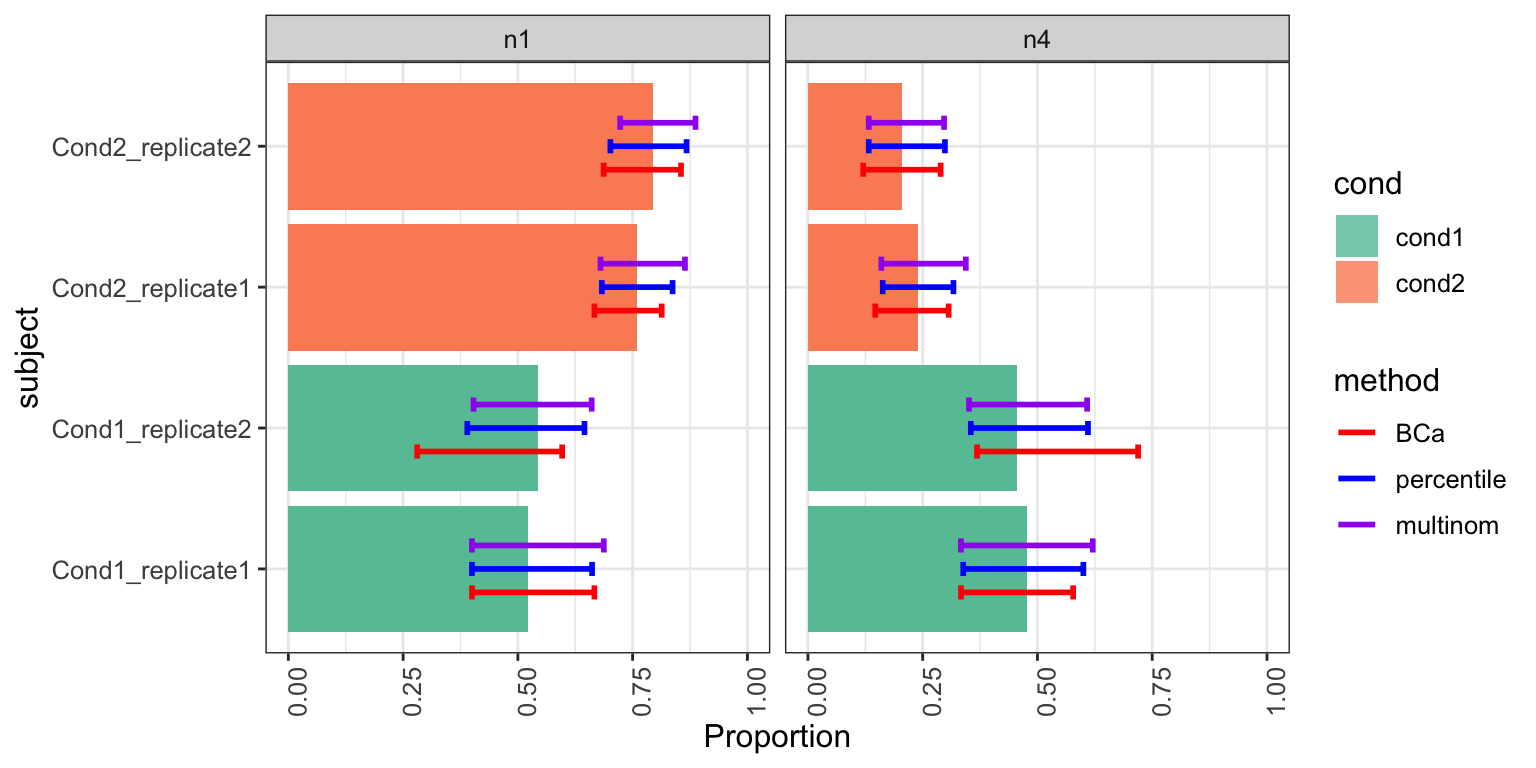
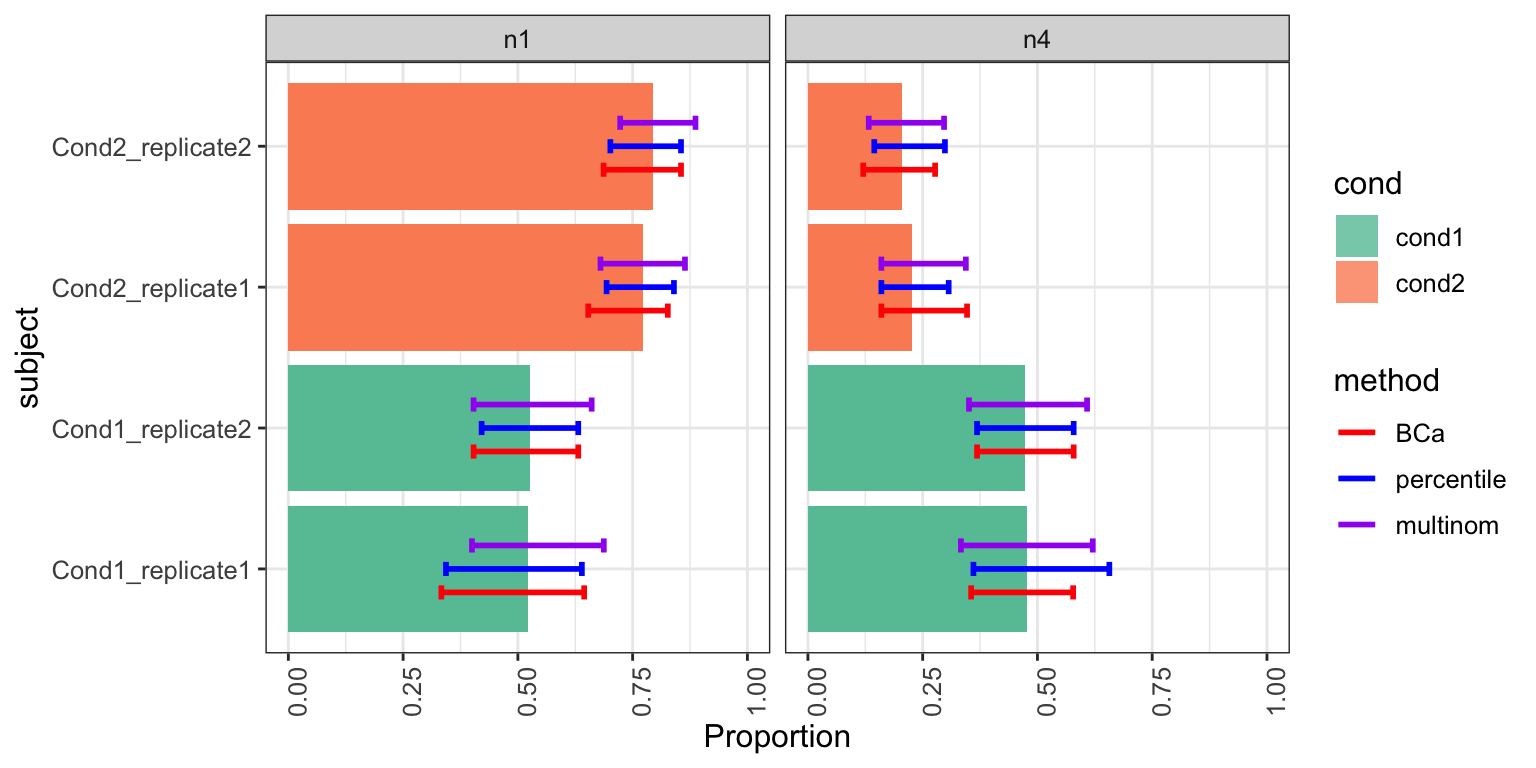
change readme figures link

diff --git a/docs/articles/scDC.html b/docs/articles/scDC.html
@@ -30,7 +30,7 @@
       </button>
       <span class="navbar-brand">
         <a class="navbar-link" href="../index.html">scdney</a>
-        <span class="version label label-default" data-toggle="tooltip" data-placement="bottom" title="Released version">0.1.4</span>
+        <span class="version label label-default" data-toggle="tooltip" data-placement="bottom" title="Released version">0.1.5</span>
       </span>
     </div>
 
@@ -79,7 +79,7 @@
       <h1>scDC: single cell differential composition analysis</h1>
                         <h4 class="author">Yingxin Lin</h4>
             
-            <h4 class="date">2019-07-21</h4>
+            <h4 class="date">2019-08-21</h4>
       
       
       <div class="hidden name"><code>scDC.Rmd</code></div>
@@ -138,8 +138,8 @@ cond &lt;-<span class="st"> </span>sim<span class="op">$</span>sim_cond
 <p><img src="scDC_files/figure-html/unnamed-chunk-4-1.png" width="768"></p>
 <div class="sourceCode"><pre class="sourceCode r"><code class="sourceCode r"><span class="kw"><a href="../reference/densityCI.html">densityCI</a></span>(res_scDC_noClust, <span class="kw"><a href="https://www.rdocumentation.org/packages/base/topics/c">c</a></span>(<span class="st">"cond1"</span>,<span class="st">"cond1"</span>,<span class="st">"cond1"</span>,<span class="st">"cond1"</span>,
                               <span class="st">"cond2"</span>,<span class="st">"cond2"</span>,<span class="st">"cond2"</span>,<span class="st">"cond2"</span>))
-<span class="co">#&gt; Picking joint bandwidth of 0.0198</span>
-<span class="co">#&gt; Picking joint bandwidth of 0.0198</span></code></pre></div>
+<span class="co">#&gt; Picking joint bandwidth of 0.0225</span>
+<span class="co">#&gt; Picking joint bandwidth of 0.0225</span></code></pre></div>
 <p><img src="scDC_files/figure-html/unnamed-chunk-5-1.png" width="768"></p>
 </div>
 <div id="fitting-glm" class="section level2">
@@ -155,21 +155,19 @@ cond &lt;-<span class="st"> </span>sim<span class="op">$</span>sim_cond
 <span class="co">#&gt; boundary (singular) fit: see ?isSingular</span>
 <span class="co">#&gt; boundary (singular) fit: see ?isSingular</span>
 <span class="co">#&gt; boundary (singular) fit: see ?isSingular</span>
-<span class="co">#&gt; Warning in checkConv(attr(opt, "derivs"), opt$par, ctrl =</span>
-<span class="co">#&gt; control$checkConv, : Model failed to converge with max|grad| = 0.0059491</span>
-<span class="co">#&gt; (tol = 0.001, component 1)</span>
+<span class="co">#&gt; boundary (singular) fit: see ?isSingular</span>
 <span class="co">#&gt; boundary (singular) fit: see ?isSingular</span>
 <span class="co">#&gt; [1] "fitting GLM... 10"</span>
 <span class="co">#&gt; boundary (singular) fit: see ?isSingular</span>
 <span class="co">#&gt; boundary (singular) fit: see ?isSingular</span>
 <span class="co">#&gt; boundary (singular) fit: see ?isSingular</span>
 <span class="co">#&gt; boundary (singular) fit: see ?isSingular</span>
+<span class="co">#&gt; boundary (singular) fit: see ?isSingular</span>
+<span class="co">#&gt; boundary (singular) fit: see ?isSingular</span>
+<span class="co">#&gt; boundary (singular) fit: see ?isSingular</span>
 <span class="co">#&gt; Warning in checkConv(attr(opt, "derivs"), opt$par, ctrl =</span>
-<span class="co">#&gt; control$checkConv, : Model failed to converge with max|grad| = 0.00303999</span>
+<span class="co">#&gt; control$checkConv, : Model failed to converge with max|grad| = 0.00508142</span>
 <span class="co">#&gt; (tol = 0.001, component 1)</span>
-<span class="co">#&gt; boundary (singular) fit: see ?isSingular</span>
-<span class="co">#&gt; boundary (singular) fit: see ?isSingular</span>
-<span class="co">#&gt; boundary (singular) fit: see ?isSingular</span>
 <span class="co">#&gt; boundary (singular) fit: see ?isSingular</span>
 <span class="co">#&gt; boundary (singular) fit: see ?isSingular</span>
 <span class="co">#&gt; [1] "fitting GLM... 20"</span>
@@ -180,32 +178,30 @@ cond &lt;-<span class="st"> </span>sim<span class="op">$</span>sim_cond
 <span class="co">#&gt; boundary (singular) fit: see ?isSingular</span>
 <span class="co">#&gt; boundary (singular) fit: see ?isSingular</span>
 <span class="co">#&gt; boundary (singular) fit: see ?isSingular</span>
-<span class="co">#&gt; Warning in checkConv(attr(opt, "derivs"), opt$par, ctrl =</span>
-<span class="co">#&gt; control$checkConv, : Model failed to converge with max|grad| = 0.00334757</span>
-<span class="co">#&gt; (tol = 0.001, component 1)</span>
+<span class="co">#&gt; boundary (singular) fit: see ?isSingular</span>
 <span class="co">#&gt; boundary (singular) fit: see ?isSingular</span>
 <span class="co">#&gt; boundary (singular) fit: see ?isSingular</span>
 <span class="co">#&gt; [1] "fitting GLM... 30"</span>
+<span class="co">#&gt; boundary (singular) fit: see ?isSingular</span>
+<span class="co">#&gt; boundary (singular) fit: see ?isSingular</span>
+<span class="co">#&gt; boundary (singular) fit: see ?isSingular</span>
+<span class="co">#&gt; boundary (singular) fit: see ?isSingular</span>
+<span class="co">#&gt; boundary (singular) fit: see ?isSingular</span>
+<span class="co">#&gt; boundary (singular) fit: see ?isSingular</span>
+<span class="co">#&gt; boundary (singular) fit: see ?isSingular</span>
+<span class="co">#&gt; boundary (singular) fit: see ?isSingular</span>
 <span class="co">#&gt; Warning in checkConv(attr(opt, "derivs"), opt$par, ctrl =</span>
-<span class="co">#&gt; control$checkConv, : Model failed to converge with max|grad| = 0.00218814</span>
+<span class="co">#&gt; control$checkConv, : Model failed to converge with max|grad| = 0.0253206</span>
 <span class="co">#&gt; (tol = 0.001, component 1)</span>
-<span class="co">#&gt; boundary (singular) fit: see ?isSingular</span>
-<span class="co">#&gt; boundary (singular) fit: see ?isSingular</span>
-<span class="co">#&gt; boundary (singular) fit: see ?isSingular</span>
-<span class="co">#&gt; Warning in checkConv(attr(opt, "derivs"), opt$par, ctrl =</span>
-<span class="co">#&gt; control$checkConv, : Model failed to converge with max|grad| = 0.0153461</span>
-<span class="co">#&gt; (tol = 0.001, component 1)</span>
-<span class="co">#&gt; boundary (singular) fit: see ?isSingular</span>
-<span class="co">#&gt; boundary (singular) fit: see ?isSingular</span>
-<span class="co">#&gt; boundary (singular) fit: see ?isSingular</span>
-<span class="co">#&gt; boundary (singular) fit: see ?isSingular</span>
 <span class="co">#&gt; boundary (singular) fit: see ?isSingular</span>
 <span class="co">#&gt; [1] "fitting GLM... 40"</span>
 <span class="co">#&gt; boundary (singular) fit: see ?isSingular</span>
 <span class="co">#&gt; boundary (singular) fit: see ?isSingular</span>
 <span class="co">#&gt; boundary (singular) fit: see ?isSingular</span>
 <span class="co">#&gt; boundary (singular) fit: see ?isSingular</span>
-<span class="co">#&gt; boundary (singular) fit: see ?isSingular</span>
+<span class="co">#&gt; Warning in checkConv(attr(opt, "derivs"), opt$par, ctrl =</span>
+<span class="co">#&gt; control$checkConv, : Model failed to converge with max|grad| = 0.00218806</span>
+<span class="co">#&gt; (tol = 0.001, component 1)</span>
 <span class="co">#&gt; boundary (singular) fit: see ?isSingular</span>
 <span class="co">#&gt; boundary (singular) fit: see ?isSingular</span>
 <span class="co">#&gt; boundary (singular) fit: see ?isSingular</span>
@@ -220,30 +216,35 @@ cond &lt;-<span class="st"> </span>sim<span class="op">$</span>sim_cond
 <h4 class="hasAnchor">
 <a href="#fixed-effect" class="anchor"></a>Fixed effect</h4>
 <div class="sourceCode"><pre class="sourceCode r"><code class="sourceCode r"><span class="kw"><a href="https://www.rdocumentation.org/packages/base/topics/summary">summary</a></span>(res_GLM<span class="op">$</span>pool_res_fixed)
-<span class="co">#&gt;                           estimate std.error  statistic        df</span>
-<span class="co">#&gt; (Intercept)              3.1625641 0.2012901 15.7114742 0.9223283</span>
-<span class="co">#&gt; cellTypesn4             -0.1107832 0.2829555 -0.3915215 0.5935210</span>
-<span class="co">#&gt; condcond2                1.0067141 0.2398887  4.1965885 0.9380060</span>
-<span class="co">#&gt; subjectCond1_replicate2  0.2363888 0.1994143  1.1854154 1.1998800</span>
-<span class="co">#&gt; subjectCond2_replicate1 -0.1013525 0.1593158 -0.6361735 1.1998800</span>
-<span class="co">#&gt; cellTypesn4:condcond2   -1.1650624 0.4121154 -2.8270297 0.5443822</span>
+<span class="co">#&gt;                            estimate std.error  statistic        df</span>
+<span class="co">#&gt; (Intercept)              3.15413807 0.1964143 16.0585951 0.9732650</span>
+<span class="co">#&gt; cellTypesn4             -0.09101547 0.2680019 -0.3396075 0.6598746</span>
+<span class="co">#&gt; condcond2                1.01268012 0.2321879  4.3614681 1.0051170</span>
+<span class="co">#&gt; subjectCond1_replicate2  0.23638878 0.1994143  1.1854155 1.1998800</span>
+<span class="co">#&gt; subjectCond2_replicate1 -0.10135249 0.1593158 -0.6361736 1.1998800</span>
+<span class="co">#&gt; cellTypesn4:condcond2   -1.17116306 0.3773323 -3.1037978 0.6455669</span>
 <span class="co">#&gt;                            p.value</span>
-<span class="co">#&gt; (Intercept)             0.04948581</span>
-<span class="co">#&gt; cellTypesn4             0.79204441</span>
-<span class="co">#&gt; condcond2               0.16142850</span>
-<span class="co">#&gt; subjectCond1_replicate2 0.41965885</span>
-<span class="co">#&gt; subjectCond2_replicate1 0.62431046</span>
-<span class="co">#&gt; cellTypesn4:condcond2   0.35638527</span></code></pre></div>
+<span class="co">#&gt; (Intercept)             0.04243676</span>
+<span class="co">#&gt; cellTypesn4             0.81146423</span>
+<span class="co">#&gt; condcond2               0.14252249</span>
+<span class="co">#&gt; subjectCond1_replicate2 0.41965883</span>
+<span class="co">#&gt; subjectCond2_replicate1 0.62431042</span>
+<span class="co">#&gt; cellTypesn4:condcond2   0.29656118</span></code></pre></div>
 </div>
 <div id="random-effect" class="section level4">
 <h4 class="hasAnchor">
 <a href="#random-effect" class="anchor"></a>Random effect</h4>
 <div class="sourceCode"><pre class="sourceCode r"><code class="sourceCode r"><span class="kw"><a href="https://www.rdocumentation.org/packages/base/topics/summary">summary</a></span>(res_GLM<span class="op">$</span>pool_res_random)
-<span class="co">#&gt;                         estimate std.error  statistic        df    p.value</span>
-<span class="co">#&gt; (Intercept)            3.2877209 0.1676276 19.6132482 1.3309304 0.01334055</span>
-<span class="co">#&gt; cellTypesn4           -0.1107771 0.2829552 -0.3915003 0.9871837 0.76310054</span>
-<span class="co">#&gt; condcond2              0.8321651 0.1985175  4.1918979 1.3606333 0.09745887</span>
-<span class="co">#&gt; cellTypesn4:condcond2 -1.1650457 0.4121149 -2.8269927 0.9053086 0.23701436</span></code></pre></div>
+<span class="co">#&gt;                          estimate std.error  statistic       df</span>
+<span class="co">#&gt; (Intercept)            3.27932059 0.1617415 20.2750773 1.441107</span>
+<span class="co">#&gt; cellTypesn4           -0.09101401 0.2680008 -0.3396035 1.097796</span>
+<span class="co">#&gt; condcond2              0.83809398 0.1891364  4.4311628 1.509147</span>
+<span class="co">#&gt; cellTypesn4:condcond2 -1.17115780 0.3773325 -3.1037822 1.073936</span>
+<span class="co">#&gt;                           p.value</span>
+<span class="co">#&gt; (Intercept)           0.009586436</span>
+<span class="co">#&gt; cellTypesn4           0.787589159</span>
+<span class="co">#&gt; condcond2             0.076951683</span>
+<span class="co">#&gt; cellTypesn4:condcond2 0.184444189</span></code></pre></div>
 </div>
 </div>
 </div>
@@ -290,7 +291,7 @@ cond &lt;-<span class="st"> </span>sim<span class="op">$</span>sim_cond
 <div class="sourceCode"><pre class="sourceCode r"><code class="sourceCode r"><span class="kw"><a href="https://www.rdocumentation.org/packages/utils/topics/sessionInfo">sessionInfo</a></span>()
 <span class="co">#&gt; R version 3.6.1 (2019-07-05)</span>
 <span class="co">#&gt; Platform: x86_64-apple-darwin15.6.0 (64-bit)</span>
-<span class="co">#&gt; Running under: macOS Mojave 10.14.5</span>
+<span class="co">#&gt; Running under: macOS Mojave 10.14.6</span>
 <span class="co">#&gt; </span>
 <span class="co">#&gt; Matrix products: default</span>
 <span class="co">#&gt; BLAS:   /Library/Frameworks/R.framework/Versions/3.6/Resources/lib/libRblas.0.dylib</span>

diff --git a/docs/articles/scdney.html b/docs/articles/scdney.html
@@ -30,7 +30,7 @@
       </button>
       <span class="navbar-brand">
         <a class="navbar-link" href="../index.html">scdney</a>
-        <span class="version label label-default" data-toggle="tooltip" data-placement="bottom" title="Released version">0.1.4</span>
+        <span class="version label label-default" data-toggle="tooltip" data-placement="bottom" title="Released version">0.1.5</span>
       </span>
     </div>
 
@@ -83,7 +83,7 @@
       <h1>scdney</h1>
                         <h4 class="author">Taiyun Kim</h4>
             
-            <h4 class="date">21 July, 2019</h4>
+            <h4 class="date">21 August, 2019</h4>
       
       
       <div class="hidden name"><code>scdney.Rmd</code></div>
@@ -292,9 +292,9 @@ noisyCls &lt;-<span class="st"> </span><span class="cf">function</span>(dat, rho
   <span class="cf">for</span>(i <span class="cf">in</span> <span class="dv">1</span><span class="op">:</span><span class="kw"><a href="https://www.rdocumentation.org/packages/base/topics/length">length</a></span>(<span class="kw"><a href="https://www.rdocumentation.org/packages/base/topics/table">table</a></span>(cls.noisy))) {
     <span class="co"># class label starts from 0</span>
     <span class="cf">if</span> (i <span class="op">!=</span><span class="st"> </span><span class="kw"><a href="https://www.rdocumentation.org/packages/base/topics/length">length</a></span>(<span class="kw"><a href="https://www.rdocumentation.org/packages/base/topics/table">table</a></span>(cls.noisy))) {
-      cls.noisy[<span class="kw"><a href="https://www.rdocumentation.org/packages/dplyr/topics/sample">sample</a></span>(<span class="kw"><a href="https://www.rdocumentation.org/packages/base/topics/which">which</a></span>(cls.truth <span class="op">==</span><span class="st"> </span><span class="kw"><a href="https://www.rdocumentation.org/packages/base/topics/names">names</a></span>(<span class="kw"><a href="https://www.rdocumentation.org/packages/base/topics/table">table</a></span>(cls.noisy))[i]), <span class="kw"><a href="https://www.rdocumentation.org/packages/base/topics/Round">floor</a></span>(<span class="kw"><a href="https://www.rdocumentation.org/packages/base/topics/sum">sum</a></span>(cls.truth <span class="op">==</span><span class="st"> </span><span class="kw"><a href="https://www.rdocumentation.org/packages/base/topics/names">names</a></span>(<span class="kw"><a href="https://www.rdocumentation.org/packages/base/topics/table">table</a></span>(cls.noisy))[i]) <span class="op">*</span><span class="st"> </span>rho))] &lt;-<span class="st"> </span><span class="kw"><a href="https://www.rdocumentation.org/packages/base/topics/names">names</a></span>(<span class="kw"><a href="https://www.rdocumentation.org/packages/base/topics/table">table</a></span>(cls.noisy))[i<span class="op">+</span><span class="dv">1</span>]
+      cls.noisy[<span class="kw"><a href="https://dplyr.tidyverse.org/reference/sample.html">sample</a></span>(<span class="kw"><a href="https://www.rdocumentation.org/packages/base/topics/which">which</a></span>(cls.truth <span class="op">==</span><span class="st"> </span><span class="kw"><a href="https://www.rdocumentation.org/packages/base/topics/names">names</a></span>(<span class="kw"><a href="https://www.rdocumentation.org/packages/base/topics/table">table</a></span>(cls.noisy))[i]), <span class="kw"><a href="https://www.rdocumentation.org/packages/base/topics/Round">floor</a></span>(<span class="kw"><a href="https://www.rdocumentation.org/packages/base/topics/sum">sum</a></span>(cls.truth <span class="op">==</span><span class="st"> </span><span class="kw"><a href="https://www.rdocumentation.org/packages/base/topics/names">names</a></span>(<span class="kw"><a href="https://www.rdocumentation.org/packages/base/topics/table">table</a></span>(cls.noisy))[i]) <span class="op">*</span><span class="st"> </span>rho))] &lt;-<span class="st"> </span><span class="kw"><a href="https://www.rdocumentation.org/packages/base/topics/names">names</a></span>(<span class="kw"><a href="https://www.rdocumentation.org/packages/base/topics/table">table</a></span>(cls.noisy))[i<span class="op">+</span><span class="dv">1</span>]
     } <span class="cf">else</span> {
-      cls.noisy[<span class="kw"><a href="https://www.rdocumentation.org/packages/dplyr/topics/sample">sample</a></span>(<span class="kw"><a href="https://www.rdocumentation.org/packages/base/topics/which">which</a></span>(cls.truth <span class="op">==</span><span class="st"> </span><span class="kw"><a href="https://www.rdocumentation.org/packages/base/topics/names">names</a></span>(<span class="kw"><a href="https://www.rdocumentation.org/packages/base/topics/table">table</a></span>(cls.noisy))[i]), <span class="kw"><a href="https://www.rdocumentation.org/packages/base/topics/Round">floor</a></span>(<span class="kw"><a href="https://www.rdocumentation.org/packages/base/topics/sum">sum</a></span>(cls.truth <span class="op">==</span><span class="st"> </span><span class="kw"><a href="https://www.rdocumentation.org/packages/base/topics/names">names</a></span>(<span class="kw"><a href="https://www.rdocumentation.org/packages/base/topics/table">table</a></span>(cls.noisy))[i]) <span class="op">*</span><span class="st"> </span>rho))] &lt;-<span class="st"> </span><span class="kw"><a href="https://www.rdocumentation.org/packages/base/topics/names">names</a></span>(<span class="kw"><a href="https://www.rdocumentation.org/packages/base/topics/table">table</a></span>(cls.noisy))[<span class="dv">1</span>]
+      cls.noisy[<span class="kw"><a href="https://dplyr.tidyverse.org/reference/sample.html">sample</a></span>(<span class="kw"><a href="https://www.rdocumentation.org/packages/base/topics/which">which</a></span>(cls.truth <span class="op">==</span><span class="st"> </span><span class="kw"><a href="https://www.rdocumentation.org/packages/base/topics/names">names</a></span>(<span class="kw"><a href="https://www.rdocumentation.org/packages/base/topics/table">table</a></span>(cls.noisy))[i]), <span class="kw"><a href="https://www.rdocumentation.org/packages/base/topics/Round">floor</a></span>(<span class="kw"><a href="https://www.rdocumentation.org/packages/base/topics/sum">sum</a></span>(cls.truth <span class="op">==</span><span class="st"> </span><span class="kw"><a href="https://www.rdocumentation.org/packages/base/topics/names">names</a></span>(<span class="kw"><a href="https://www.rdocumentation.org/packages/base/topics/table">table</a></span>(cls.noisy))[i]) <span class="op">*</span><span class="st"> </span>rho))] &lt;-<span class="st"> </span><span class="kw"><a href="https://www.rdocumentation.org/packages/base/topics/names">names</a></span>(<span class="kw"><a href="https://www.rdocumentation.org/packages/base/topics/table">table</a></span>(cls.noisy))[<span class="dv">1</span>]
     }
   }
 
@@ -528,7 +528,7 @@ marker &lt;-<span class="st"> </span>Ery[<span class="dv">2</span>]
 <div class="sourceCode"><pre class="sourceCode r"><code class="sourceCode r"><span class="kw"><a href="https://www.rdocumentation.org/packages/utils/topics/sessionInfo">sessionInfo</a></span>()</code></pre></div>
 <pre><code>## R version 3.6.1 (2019-07-05)
 ## Platform: x86_64-apple-darwin15.6.0 (64-bit)
-## Running under: macOS Mojave 10.14.5
+## Running under: macOS Mojave 10.14.6
 ## 
 ## Matrix products: default
 ## BLAS:   /Library/Frameworks/R.framework/Versions/3.6/Resources/lib/libRblas.0.dylib

diff --git a/docs/articles/scClassify.html b/docs/articles/scClassify.html
@@ -30,7 +30,7 @@
       </button>
       <span class="navbar-brand">
         <a class="navbar-link" href="../index.html">scdney</a>
-        <span class="version label label-default" data-toggle="tooltip" data-placement="bottom" title="Released version">0.1.4</span>
+        <span class="version label label-default" data-toggle="tooltip" data-placement="bottom" title="Released version">0.1.5</span>
       </span>
     </div>
 
@@ -79,7 +79,7 @@
       <h1>scClassify</h1>
                         <h4 class="author">Yingxin Lin</h4>
             
-            <h4 class="date">2019-07-21</h4>
+            <h4 class="date">2019-08-21</h4>
       
       
       <div class="hidden name"><code>scClassify.Rmd</code></div>
@@ -134,9 +134,9 @@ exprsMat_wang_subset &lt;-<span class="st"> </span>scClassify_example<span class
 <span class="co">#&gt;   gamma                 0     0    0     0      0    19        0</span>
 <span class="co">#&gt;   unassigned            5     0    0     0     75     0       45</span></code></pre></div>
 </div>
-<div id="ensemble-classify" class="section level2">
+<div id="ensemble-scclassify" class="section level2">
 <h2 class="hasAnchor">
-<a href="#ensemble-classify" class="anchor"></a>Ensemble Classify</h2>
+<a href="#ensemble-scclassify" class="anchor"></a>Ensemble scClassify</h2>
 <div class="sourceCode"><pre class="sourceCode r"><code class="sourceCode r">scClassify_res_ensemble &lt;-<span class="st"> </span><span class="kw"><a href="../reference/scClassify.html">scClassify</a></span>(<span class="dt">exprsMat_train =</span> <span class="kw"><a href="https://www.rdocumentation.org/packages/base/topics/matrix">as.matrix</a></span>(exprsMat_xin_subset),
                       <span class="dt">cellTypes_train =</span> xin_cellTypes,
                       <span class="dt">exprsMat_test =</span> <span class="kw"><a href="https://www.rdocumentation.org/packages/base/topics/list">list</a></span>(<span class="dt">wang =</span> <span class="kw"><a href="https://www.rdocumentation.org/packages/base/topics/matrix">as.matrix</a></span>(exprsMat_wang_subset)),
@@ -153,10 +153,10 @@ exprsMat_wang_subset &lt;-<span class="st"> </span>scClassify_example<span class
 <span class="co">#&gt;                   wang_cellTypes</span>
 <span class="co">#&gt;                    acinar alpha beta delta ductal gamma stellate</span>
 <span class="co">#&gt;   alpha                 0   206    0     0      0     2        1</span>
-<span class="co">#&gt;   unassigned            5     0    0     0     81     0       44</span>
+<span class="co">#&gt;   beta_delta_gamma      0     0    0     0     21     0        0</span>
 <span class="co">#&gt;   delta                 0     0    0    10      0     0        0</span>
-<span class="co">#&gt;   beta_delta_gamma      0     0    0     0     13     0        0</span>
-<span class="co">#&gt;   beta                  0     0  118     0      2     0        0</span>
+<span class="co">#&gt;   beta                  0     0  118     0      4     0        0</span>
+<span class="co">#&gt;   unassigned            5     0    0     0     71     0       44</span>
 <span class="co">#&gt;   gamma                 0     0    0     0      0    19        0</span></code></pre></div>
 </div>
 </div>
@@ -201,7 +201,7 @@ res<span class="op">$</span>plot</code></pre></div>
 <div class="sourceCode"><pre class="sourceCode r"><code class="sourceCode r"><span class="kw"><a href="https://www.rdocumentation.org/packages/utils/topics/sessionInfo">sessionInfo</a></span>()
 <span class="co">#&gt; R version 3.6.1 (2019-07-05)</span>
 <span class="co">#&gt; Platform: x86_64-apple-darwin15.6.0 (64-bit)</span>
-<span class="co">#&gt; Running under: macOS Mojave 10.14.5</span>
+<span class="co">#&gt; Running under: macOS Mojave 10.14.6</span>
 <span class="co">#&gt; </span>
 <span class="co">#&gt; Matrix products: default</span>
 <span class="co">#&gt; BLAS:   /Library/Frameworks/R.framework/Versions/3.6/Resources/lib/libRblas.0.dylib</span>
@@ -300,7 +300,7 @@ res<span class="op">$</span>plot</code></pre></div>
 <li>
 <a href="#scclassify">scClassify</a><ul class="nav nav-pills nav-stacked">
 <li><a href="#non-ensemble-scclassify">Non-ensemble scClassify</a></li>
-      <li><a href="#ensemble-classify">Ensemble Classify</a></li>
+      <li><a href="#ensemble-scclassify">Ensemble scClassify</a></li>
       </ul>
 </li>
       <li>

diff --git a/docs/index.html b/docs/index.html
@@ -30,7 +30,7 @@
       </button>
       <span class="navbar-brand">
         <a class="navbar-link" href="index.html">scdney</a>
-        <span class="version label label-default" data-toggle="tooltip" data-placement="bottom" title="Released version">0.1.4</span>
+        <span class="version label label-default" data-toggle="tooltip" data-placement="bottom" title="Released version">0.1.5</span>
       </span>
     </div>
 
@@ -120,7 +120,7 @@
 <h3 class="hasAnchor">
 <a href="#scclust" class="anchor"></a>scClust</h3>
 <p>See: Kim, T., Chen, I., Lin, Y., Wang, A., Yang, J., &amp; Yang, P.† (2018) Impact of similarity metrics on single-cell RNA-seq data clustering. <strong><em>Briefings in Bioinformatics</em></strong> <a href="https://doi.org/10.1093/bib/bby076">[</a><a href="https://doi.org/10.1093/bib/bby076" class="uri">https://doi.org/10.1093/bib/bby076</a>]</p>
-<p><img src="img/scClust.jpg" alt="alt text"></p>
+<p><img src="https://github.com/SydneyBioX/scdney/raw/master/img/scClust.jpg" alt="alt text"></p>
 <p>Current version of this package is implemented to run a modified version of SIMLR (Wang et al, 2017) or k-means clustering methods with various similarity metrics.</p>
 <p>Available metrics include:</p>
 <p>SIMLR - <code>"pearson"</code> correlation, <code>"spearman"</code> corelation and <code>"euclidean"</code> distance.</p>
@@ -171,7 +171,7 @@ kmeans.result &lt;-<span class="st"> </span><span class="kw"><a href="reference/
 <div id="screclassify" class="section level3">
 <h3 class="hasAnchor">
 <a href="#screclassify" class="anchor"></a>scReClassify</h3>
-<p><img src="img/scReClassify.jpg" alt="alt text"></p>
+<p><img src="https://github.com/SydneyBioX/scdney/raw/master/img/scReClassify.jpg" alt="alt text"></p>
 <p>Current version of this package is implemented to run with <code>svm</code> and <code>radomForest</code> classifiers.</p>
 <div id="load-data-1" class="section level4">
 <h4 class="hasAnchor">
@@ -372,13 +372,13 @@ The second argument is the label of each sample. In this data, there are 4 sampl
 <div class="sourceCode"><pre class="sourceCode r"><code class="sourceCode r"><span class="kw"><a href="reference/barplotCI.html">barplotCI</a></span>(res_scDC_noClust, <span class="kw"><a href="https://www.rdocumentation.org/packages/base/topics/c">c</a></span>(<span class="st">"cond1"</span>,<span class="st">"cond1"</span>,<span class="st">"cond1"</span>,<span class="st">"cond1"</span>,
                               <span class="st">"cond2"</span>,<span class="st">"cond2"</span>,<span class="st">"cond2"</span>,<span class="st">"cond2"</span>))
                               </code></pre></div>
-<p><img src="img/barplot.png" alt="alt text"></p>
+<p><img src="https://github.com/SydneyBioX/scdney/raw/master/img/barplot.png" alt="alt text"></p>
 <div class="sourceCode"><pre class="sourceCode r"><code class="sourceCode r"><span class="kw"><a href="reference/densityCI.html">densityCI</a></span>(res_scDC_noClust, <span class="kw"><a href="https://www.rdocumentation.org/packages/base/topics/c">c</a></span>(<span class="st">"cond1"</span>,<span class="st">"cond1"</span>,<span class="st">"cond1"</span>,<span class="st">"cond1"</span>,
                               <span class="st">"cond2"</span>,<span class="st">"cond2"</span>,<span class="st">"cond2"</span>,<span class="st">"cond2"</span>))
 <span class="co">#&gt; Picking joint bandwidth of 0.0239</span>
 <span class="co">#&gt; Picking joint bandwidth of 0.0239</span>
                               </code></pre></div>
-<p><img src="img/densityplot.png" alt="alt text"></p>
+<p><img src="https://github.com/SydneyBioX/scdney/raw/master/img/densityplot.png" alt="alt text"></p>
 </div>
 <div id="fitting-glm" class="section level3">
 <h3 class="hasAnchor">

diff --git a/docs/reference/scClustBench.html b/docs/reference/scClustBench.html
@@ -64,7 +64,7 @@ The data mat must contain label information as column names to subsample the mat
       </button>
       <span class="navbar-brand">
         <a class="navbar-link" href="../index.html">scdney</a>
-        <span class="version label label-default" data-toggle="tooltip" data-placement="bottom" title="Released version">0.1.4</span>
+        <span class="version label label-default" data-toggle="tooltip" data-placement="bottom" title="Released version">0.1.5</span>
       </span>
     </div>
 

diff --git a/docs/reference/sim.html b/docs/reference/sim.html
@@ -64,7 +64,7 @@ sim" />
       </button>
       <span class="navbar-brand">
         <a class="navbar-link" href="../index.html">scdney</a>
-        <span class="version label label-default" data-toggle="tooltip" data-placement="bottom" title="Released version">0.1.4</span>
+        <span class="version label label-default" data-toggle="tooltip" data-placement="bottom" title="Released version">0.1.5</span>
       </span>
     </div>
 

diff --git a/docs/articles/index.html b/docs/articles/index.html
@@ -60,7 +60,7 @@
       </button>
       <span class="navbar-brand">
         <a class="navbar-link" href="../index.html">scdney</a>
-        <span class="version label label-default" data-toggle="tooltip" data-placement="bottom" title="Released version">0.1.4</span>
+        <span class="version label label-default" data-toggle="tooltip" data-placement="bottom" title="Released version">0.1.5</span>
       </span>
     </div>
 

diff --git a/docs/reference/bAccuracy.html b/docs/reference/bAccuracy.html
@@ -63,7 +63,7 @@
       </button>
       <span class="navbar-brand">
         <a class="navbar-link" href="../index.html">scdney</a>
-        <span class="version label label-default" data-toggle="tooltip" data-placement="bottom" title="Released version">0.1.4</span>
+        <span class="version label label-default" data-toggle="tooltip" data-placement="bottom" title="Released version">0.1.5</span>
       </span>
     </div>
 

diff --git a/docs/reference/barplotCI.html b/docs/reference/barplotCI.html
@@ -63,7 +63,7 @@
       </button>
       <span class="navbar-brand">
         <a class="navbar-link" href="../index.html">scdney</a>
-        <span class="version label label-default" data-toggle="tooltip" data-placement="bottom" title="Released version">0.1.4</span>
+        <span class="version label label-default" data-toggle="tooltip" data-placement="bottom" title="Released version">0.1.5</span>
       </span>
     </div>
 

diff --git a/docs/reference/densityCI.html b/docs/reference/densityCI.html
@@ -63,7 +63,7 @@
       </button>
       <span class="navbar-brand">
         <a class="navbar-link" href="../index.html">scdney</a>
-        <span class="version label label-default" data-toggle="tooltip" data-placement="bottom" title="Released version">0.1.4</span>
+        <span class="version label label-default" data-toggle="tooltip" data-placement="bottom" title="Released version">0.1.5</span>
       </span>
     </div>
 

diff --git a/docs/reference/evalScClustBench.html b/docs/reference/evalScClustBench.html
@@ -63,7 +63,7 @@
       </button>
       <span class="navbar-brand">
         <a class="navbar-link" href="../index.html">scdney</a>
-        <span class="version label label-default" data-toggle="tooltip" data-placement="bottom" title="Released version">0.1.4</span>
+        <span class="version label label-default" data-toggle="tooltip" data-placement="bottom" title="Released version">0.1.5</span>
       </span>
     </div>
 

diff --git a/docs/reference/findMarker.html b/docs/reference/findMarker.html
@@ -63,7 +63,7 @@
       </button>
       <span class="navbar-brand">
         <a class="navbar-link" href="../index.html">scdney</a>
-        <span class="version label label-default" data-toggle="tooltip" data-placement="bottom" title="Released version">0.1.4</span>
+        <span class="version label label-default" data-toggle="tooltip" data-placement="bottom" title="Released version">0.1.5</span>
       </span>
     </div>
 
